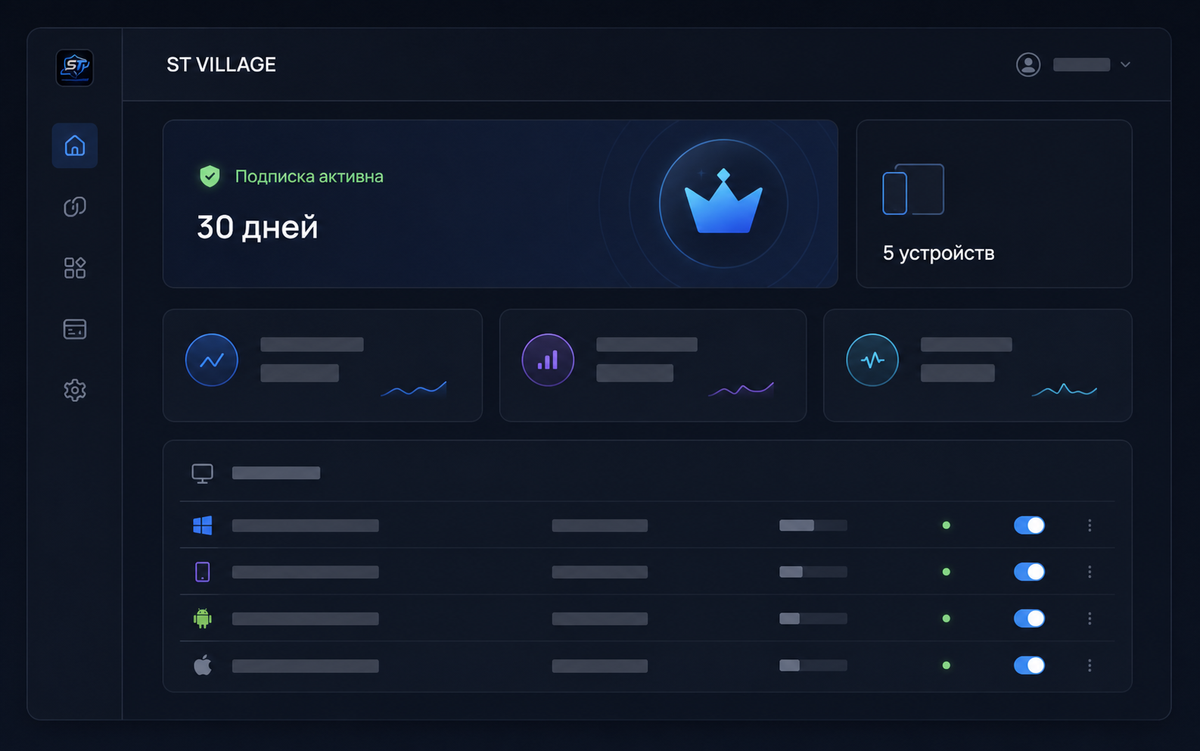
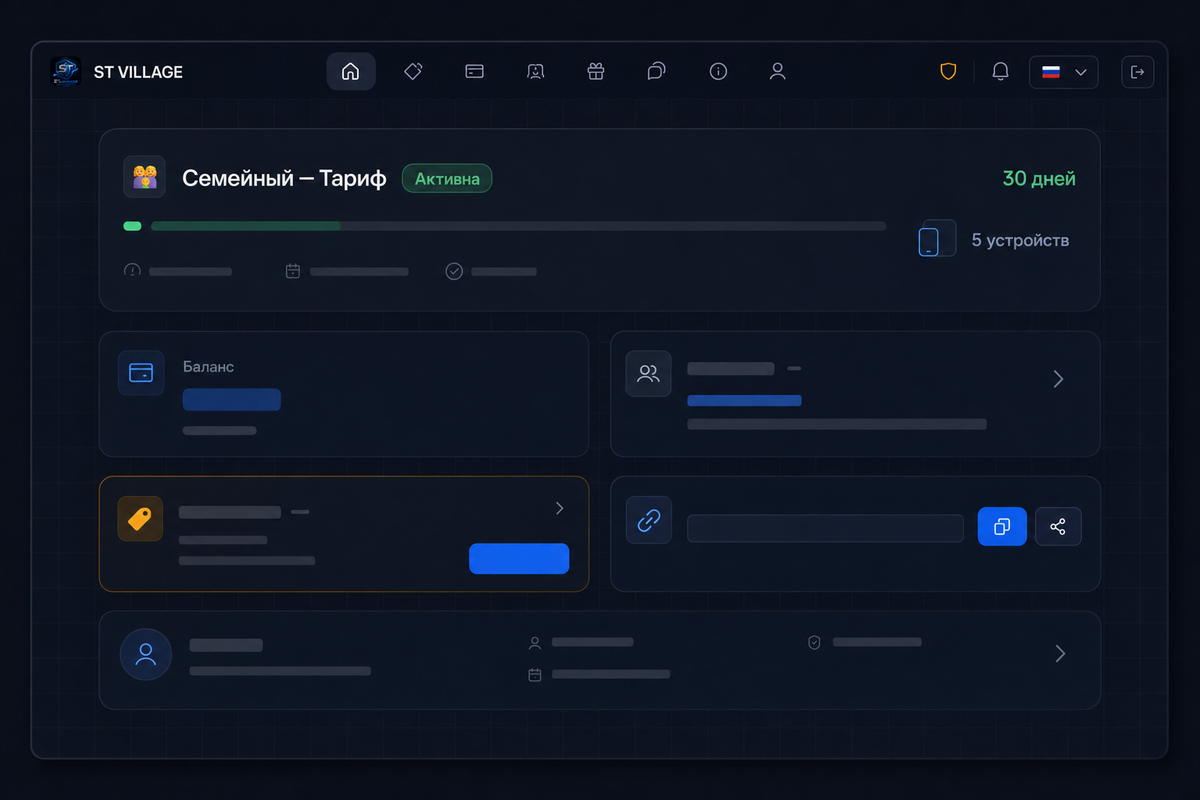
Upgrade cabinet preview artwork and effects

diff --git a/app/globals.css b/app/globals.css
@@ -127,7 +127,8 @@ button, a { -webkit-tap-highlight-color: transparent; }
 .check-list li { color: var(--muted); font-size: 14px; }.check-list span { display: inline-grid; place-items: center; width: 21px; height: 21px; margin-right: 9px; border-radius: 50%; background: var(--accent-soft); color: var(--accent); font-size: 11px; }
 .cabinet-preview { position: relative; isolation: isolate; display: block; color: var(--foreground); perspective: 1200px; }
 .cabinet-preview-glow { position: absolute; z-index: -1; inset: 7% -3% -7% 14%; border-radius: 50%; background: radial-gradient(circle,rgba(37,99,235,.34),rgba(56,189,248,.1) 42%,transparent 72%); filter: blur(34px); opacity: .82; transition: opacity .3s, transform .3s; }
-.cabinet-preview-frame { display: block; padding: 12px; overflow: hidden; border: 1px solid rgba(96,165,250,.28); border-radius: 29px; background: linear-gradient(145deg,rgba(56,189,248,.13),transparent 38%),#0b111e; box-shadow: 0 35px 90px rgba(0,0,0,.42),0 0 0 1px rgba(255,255,255,.035) inset,0 0 60px rgba(37,99,235,.12); transform: rotateY(-3deg) rotateX(1.4deg); transform-origin: center left; transition: transform .35s ease,border-color .35s ease,box-shadow .35s ease; }
+.cabinet-preview-frame { position: relative; display: block; padding: 12px; overflow: hidden; border: 1px solid rgba(96,165,250,.28); border-radius: 29px; background: linear-gradient(145deg,rgba(56,189,248,.13),transparent 38%),#0b111e; box-shadow: 0 35px 90px rgba(0,0,0,.42),0 0 0 1px rgba(255,255,255,.035) inset,0 0 60px rgba(37,99,235,.12); transform: rotateY(-3deg) rotateX(1.4deg); transform-origin: center left; transition: transform .35s ease,border-color .35s ease,box-shadow .35s ease; }
+.cabinet-preview-frame::before { content: ""; position: absolute; z-index: 2; inset: 0 12% auto; height: 1px; background: linear-gradient(90deg,transparent,rgba(125,211,252,.72),transparent); box-shadow: 0 0 22px rgba(56,189,248,.45); pointer-events: none; }
 .cabinet-preview:hover .cabinet-preview-frame { transform: rotateY(-1deg) rotateX(.4deg) translateY(-5px); border-color: rgba(56,189,248,.5); box-shadow: 0 42px 100px rgba(0,0,0,.48),0 0 70px rgba(37,99,235,.2); }
 .cabinet-preview:hover .cabinet-preview-glow { opacity: 1; transform: scale(1.04); }
 .cabinet-preview:focus-visible { outline: 2px solid var(--accent); outline-offset: 8px; border-radius: 29px; }
@@ -135,11 +136,13 @@ button, a { -webkit-tap-highlight-color: transparent; }
 .cabinet-preview-toolbar > span:nth-child(2) { overflow: hidden; text-overflow: ellipsis; white-space: nowrap; }
 .cabinet-preview-toolbar strong { width: 24px; height: 24px; display: grid; place-items: center; border: 1px solid rgba(56,189,248,.22); border-radius: 8px; color: #7dd3fc; background: rgba(56,189,248,.08); font-size: 9px; }
 .cabinet-preview-dots { display: flex; gap: 5px; }.cabinet-preview-dots i { width: 6px; height: 6px; border-radius: 50%; background: #334155; }.cabinet-preview-dots i:first-child { background: #2563eb; }.cabinet-preview-dots i:nth-child(2) { background: #38bdf8; }
-.cabinet-preview-picture { display: block; overflow: hidden; border: 1px solid rgba(148,163,184,.14); border-radius: 18px; background: #0b111e; }.cabinet-preview-picture img { width: 100%; height: auto; display: block; }
+.cabinet-preview-picture { position: relative; display: block; overflow: hidden; isolation: isolate; border: 1px solid rgba(148,163,184,.14); border-radius: 18px; background: #0b111e; }.cabinet-preview-picture::after { content: ""; position: absolute; z-index: 2; top: -20%; bottom: -20%; left: 0; width: 15%; background: linear-gradient(90deg,transparent,rgba(125,211,252,.24),rgba(255,255,255,.16),transparent); filter: blur(7px); transform: translateX(-760%) skewX(-17deg); animation: cabinet-preview-sheen 7.5s ease-in-out infinite; pointer-events: none; }.cabinet-preview-picture img { position: relative; z-index: 1; width: 100%; height: auto; display: block; transition: transform .55s cubic-bezier(.2,.75,.25,1),filter .55s ease; }.cabinet-preview:hover .cabinet-preview-picture img { transform: scale(1.018); filter: saturate(1.08) brightness(1.035); }
 .cabinet-preview-footer { min-height: 45px; padding: 4px 9px 0; display: flex; align-items: center; justify-content: space-between; gap: 16px; color: #64748b; font-size: 9px; }.cabinet-preview-footer strong { color: #7dd3fc; font-size: 10px; }.cabinet-preview-footer i { margin-left: 4px; font-style: normal; }
-.cabinet-preview-chip { position: absolute; z-index: 3; min-height: 36px; padding: 0 13px; display: inline-flex; align-items: center; gap: 9px; border: 1px solid rgba(56,189,248,.3); border-radius: 12px; background: color-mix(in srgb,#0b111e 88%,transparent); color: #cbd5e1; box-shadow: 0 16px 40px rgba(0,0,0,.32); backdrop-filter: blur(16px); font-size: 9px; font-weight: 750; letter-spacing: .02em; }
+.cabinet-preview-chip { position: absolute; z-index: 3; min-height: 36px; padding: 0 13px; display: inline-flex; align-items: center; gap: 9px; border: 1px solid rgba(56,189,248,.3); border-radius: 12px; background: color-mix(in srgb,#0b111e 88%,transparent); color: #cbd5e1; box-shadow: 0 16px 40px rgba(0,0,0,.32); backdrop-filter: blur(16px); font-size: 9px; font-weight: 750; letter-spacing: .02em; animation: cabinet-preview-float 4.8s ease-in-out infinite; }
 .cabinet-preview-chip-live { top: 62px; right: -18px; }.cabinet-preview-chip-live .status-dot { width: 7px; height: 7px; background: #22c55e; box-shadow: 0 0 0 5px rgba(34,197,94,.1),0 0 18px rgba(34,197,94,.3); }
-.cabinet-preview-chip-secure { left: -18px; bottom: 66px; color: #7dd3fc; }
+.cabinet-preview-chip-secure { left: -18px; bottom: 66px; color: #7dd3fc; animation-delay: -2.4s; }
+@keyframes cabinet-preview-sheen { 0%,58% { opacity: 0; transform: translateX(-760%) skewX(-17deg); } 66% { opacity: .8; } 79%,100% { opacity: 0; transform: translateX(760%) skewX(-17deg); } }
+@keyframes cabinet-preview-float { 0%,100% { transform: translateY(0); } 50% { transform: translateY(-5px); } }
 
 .trial-section { padding-top: 72px; }.trial-offer { position: relative; isolation: isolate; display: grid; grid-template-columns: minmax(0,1.55fr) minmax(290px,.72fr); gap: 18px; padding: 30px; overflow: hidden; border: 1px solid rgba(56,189,248,.38); border-radius: 28px; background: radial-gradient(circle at 9% 0,rgba(56,189,248,.2),transparent 34%),linear-gradient(135deg,rgba(37,99,235,.13),transparent 56%),var(--surface); box-shadow: 0 28px 90px rgba(2,132,199,.13),inset 0 1px rgba(255,255,255,.08); }.trial-offer::before { content: "TRIAL"; position: absolute; z-index: -1; right: 24%; bottom: -44px; color: rgba(56,189,248,.035); font-size: clamp(90px,15vw,180px); font-weight: 900; letter-spacing: -.08em; line-height: 1; transform: skew(-8deg); }.trial-offer-glow { position: absolute; z-index: -1; width: 280px; height: 280px; right: -100px; top: -130px; border-radius: 50%; background: rgba(56,189,248,.18); filter: blur(55px); }.trial-offer-main,.trial-offer-side { position: relative; z-index: 1; }.trial-offer-main { padding: 10px 8px 8px; }.trial-offer-kicker { display: inline-flex; align-items: center; gap: 10px; color: var(--accent); font-size: 10px; font-weight: 850; letter-spacing: .13em; text-transform: uppercase; }.trial-offer-kicker .status-dot { width: 7px; height: 7px; }.trial-offer-copy h2 { max-width: 760px; margin: 15px 0 10px; font-size: clamp(32px,4vw,52px); line-height: 1.02; letter-spacing: -.055em; }.trial-offer-copy p { max-width: 720px; margin: 0; color: var(--muted); font-size: 14px; line-height: 1.7; }.trial-limit-grid { max-width: 690px; margin-top: 29px; display: grid; grid-template-columns: repeat(3,1fr); gap: 9px; }.trial-limit { min-height: 92px; padding: 17px 19px; display: flex; flex-direction: column; justify-content: center; border: 1px solid var(--line); border-radius: 16px; background: color-mix(in srgb,var(--surface-raised) 90%,transparent); }.trial-limit strong { color: var(--foreground); font-size: 25px; line-height: 1; letter-spacing: -.04em; }.trial-limit span { margin-top: 8px; color: var(--muted); font-size: 10px; text-transform: uppercase; letter-spacing: .08em; }.trial-location-row { margin-top: 17px; padding-top: 18px; display: flex; align-items: center; justify-content: space-between; gap: 20px; border-top: 1px solid var(--line); }.trial-location-row small,.trial-location-row > div > strong { display: block; }.trial-location-row small { color: var(--muted); font-size: 9px; letter-spacing: .1em; text-transform: uppercase; }.trial-location-row > div > strong { margin-top: 5px; font-size: 12px; }.trial-location-list { display: flex; flex-wrap: wrap; justify-content: flex-end; gap: 7px; }.trial-location { min-height: 38px; padding: 6px 10px 6px 7px; display: inline-flex; align-items: center; gap: 8px; border: 1px solid var(--line); border-radius: 12px; background: var(--surface-raised); color: var(--foreground); font-size: 10px; font-weight: 700; }.trial-location .flag-placeholder { width: 31px; height: 22px; border-radius: 6px; }.trial-location .flag-se::before { left: 9px; width: 4px; }.trial-location .flag-se::after { top: 8px; height: 4px; }.trial-offer-side { padding: 22px; display: flex; flex-direction: column; justify-content: center; border: 1px solid rgba(148,163,184,.16); border-radius: 21px; background: color-mix(in srgb,var(--background-deep) 72%,transparent); backdrop-filter: blur(12px); }.trial-restriction { display: grid; grid-template-columns: auto minmax(0,1fr); gap: 13px; }.trial-restriction-icon { width: 34px; height: 34px; display: grid; place-items: center; border-radius: 11px; background: rgba(250,204,21,.11); color: #fde047; font: 800 14px ui-monospace,monospace; }.trial-restriction strong { display: block; font-size: 13px; line-height: 1.4; }.trial-restriction p { margin: 8px 0 0; color: var(--muted); font-size: 11px; line-height: 1.65; }.trial-button { width: 100%; margin-top: 25px; }.trial-caption { display: block; margin-top: 11px; color: var(--muted); font-size: 9px; text-align: center; }.trial-offer-compact { margin-bottom: 48px; }.pricing-page-content { display: block; }
 .pricing-grid { display: grid; grid-template-columns: repeat(3,1fr); gap: 16px; align-items: stretch; }

diff --git a/app/page.tsx b/app/page.tsx
@@ -109,8 +109,8 @@ export default function Home() {
               <strong>ST</strong>
             </span>
             <picture className="cabinet-preview-picture">
-              <source srcSet="/cabinet-dashboard-preview.webp" type="image/webp" />
-              <Image src="/cabinet-dashboard-preview.png" alt="Миниатюра личного кабинета ST VILLAGE с активной подпиской и устройствами" width="1200" height="800" unoptimized sizes="(max-width: 980px) 92vw, 620px" />
+              <source srcSet="/cabinet-dashboard-preview.webp?v=2" type="image/webp" />
+              <Image src="/cabinet-dashboard-preview.png?v=2" alt="Миниатюра личного кабинета ST VILLAGE с активной семейной подпиской" width="1200" height="800" unoptimized sizes="(max-width: 980px) 92vw, 620px" />
             </picture>
             <span className="cabinet-preview-footer"><span>Демонстрационный интерфейс</span><strong>Открыть кабинет <i aria-hidden="true">↗</i></strong></span>
           </span>
